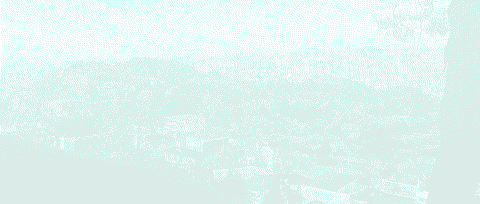
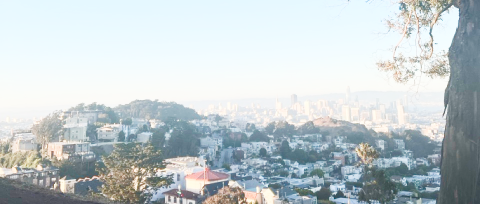
documentation up to date

diff --git a/index.html b/index.html
@@ -135,7 +135,7 @@ color: slategray;
     cursor: pointer;
     /* Reserve width for "Submitting..." so the input does not shrink/grow between states */
     box-sizing: border-box;
-    min-width: 7.5rem;
+    /* min-width: 7.5rem; */
     display: inline-flex;
     align-items: center;
     justify-content: center;
@@ -397,9 +397,25 @@ color: slategray;
     .header-row {
       display: flex;
       flex-direction: row;
+      flex-wrap: wrap;
+      align-items: flex-start;
       gap: 10px;
+      row-gap: 12px;
       padding: 10px 14px;
       font-size: 0.7rem;
+    }
+    .header-row > .header-col:first-child {
+      flex: 0 0 auto;
+    }
+    .header-row > .header-col.header-col-middle {
+      flex: 1 1 0;
+      min-width: 0;
+    }
+    .header-row > .header-col:last-child {
+      flex: 1 1 100%;
+      min-width: 0;
+      padding-top: 64x;
+      border-top: 1px dashed lightblue;
     }
     .header-col {
       padding: 0;
@@ -429,9 +445,8 @@ color: slategray;
     /* Mobile column order: video → table → artifacts */
     .col-video {
       order: 1;
-      padding: 16px 0;
+      padding: 8px 0;
       border-right: none;
-      border-bottom: 1px dashed lightblue;
       width: 100%;
     }
     .col-table {
@@ -440,9 +455,8 @@ color: slategray;
     }
     .col-artifacts {
       order: 3;
-      padding: 16px 0;
+      padding: 8px 0;
       border-left: none;
-      border-top: 1px dashed lightblue;
       flex-direction: row;
       flex-wrap: wrap;
       gap: 2px;
@@ -782,7 +796,17 @@ function syncWaitlistWidth() {
   var text = document.getElementById('gathering-text');
   var form = document.getElementById('waitlist-form');
   if (!text || !form) return;
-  form.style.width = text.getBoundingClientRect().width + 'px';
+  /* Full-width row on small screens (see mobile .waitlist-form) */
+  if (window.matchMedia('(max-width: 768px)').matches) {
+    form.style.width = '';
+    return;
+  }
+  var btn = form.querySelector('.waitlist-submit');
+  var tw = text.getBoundingClientRect().width;
+  var bw = btn ? btn.getBoundingClientRect().width : 0;
+  var gapPx = parseFloat(window.getComputedStyle(form).gap) || 6;
+  /* Span-aligned input: form = text block + submit slot so flex input ~= gathering line width */
+  form.style.width = tw + bw + gapPx + 'px';
 }
 window.addEventListener('load', syncArtifactsHeight);
 window.addEventListener('load', syncWaitlistWidth);
